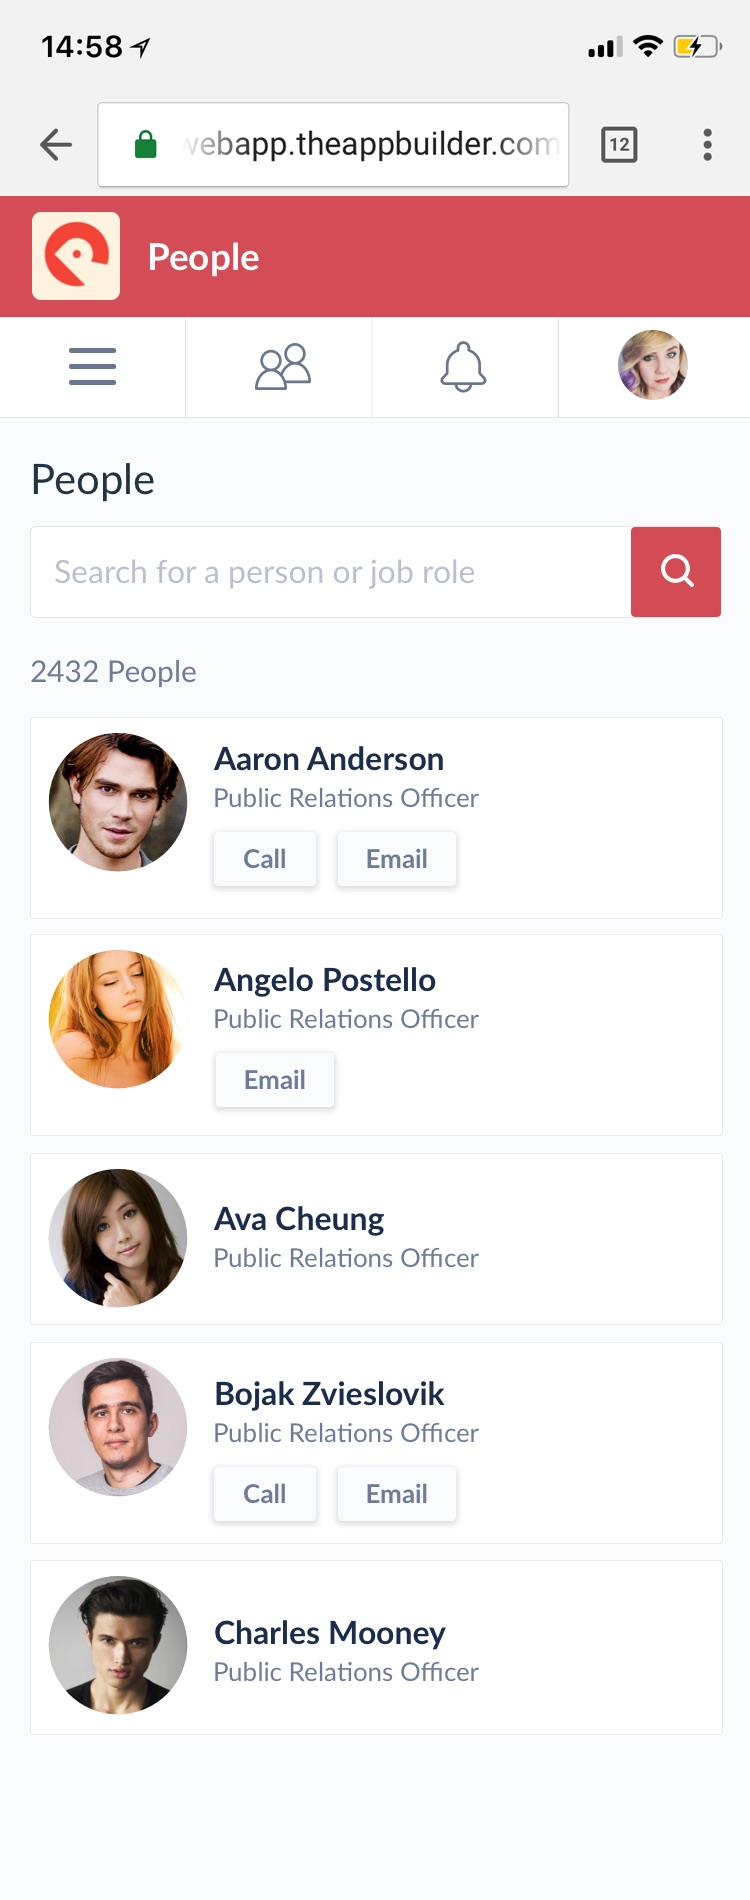
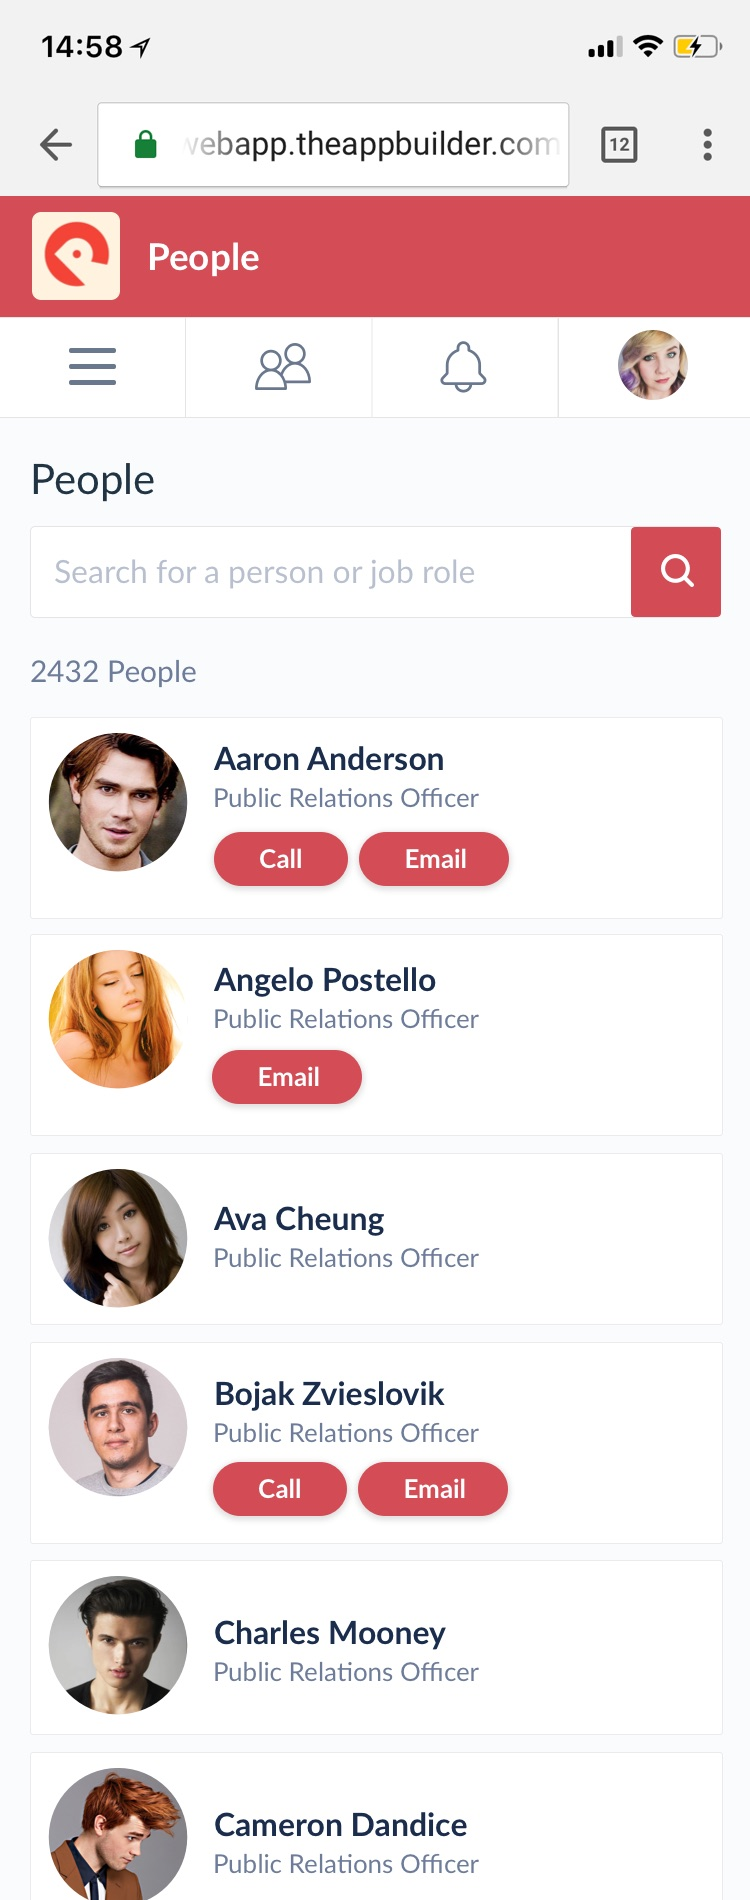
some style tweaks to modals and buttons, content changed on modals, images added

diff --git a/webapp/modals/index.html b/webapp/modals/index.html
@@ -26,33 +26,46 @@ title: Modals
 
     </ul>
 <p>The web app modals can house various content, some may have form elements whereas other may have an illustration and a button. It’s important that they retain the same look and feel. </p>
-<p>Each modal should be 553px in width, white in colour, have rounded corners (8px radius) and a drop shadow. Opening a modal should also trigger a background overlay that is black in colour and 40% opacity.
-</p>
 
-<div class="main__content__block clearfix">
-    <h2>List of likes</h2>
-    <p>This modal is shown when a user views who has liked a comment or post.</p>
-<div class="webapp-modal">
-<img src="/assets/images/webapp/liked-by-modal.png">
-</div>
-
-    <h2>Delete a comment</h2>
-    <p>This modal is shown when a user deletes a comment.</p>
-</div>
- <!------------------delete modal --------------------->
-<div class="main__content__block clearfix">
-    <div class="webapp-modal__container">
-        <p class="webapp-modal--text">Are you sure you want to delete your comment?</p><p class="webapp-modal--text">This cannot be undone.</p>
-    <button class="webappButton webappButton--primary--delete">Yes, Delete</button>
-        <div class="cancel-link">
-        <a href="#" class="text--link text--link-delete">No, cancel</a>
-        </div>
+    <div class="imageContainer imageContainer--one padding__30">
+    	<img src="{{ site.baseurl }}/assets/images/webapp/examples/webapp-liked-by-modal.jpg" alt="" /img>
+    	<p class="caption">The "Liked By" modal appearing in the web app </p>
     </div>
-</div>
+
+<p>Each modal should be 553px in width, white in colour, have rounded corners (8px radius) and a drop shadow. Opening a modal should also trigger a background overlay that is black in colour and 40% opacity.</p>
 
 
-<h2>Verify your email address</h2>
-<p>This modal is shown when a user needs to verify their email address. It includes a resend link.</p>
+<h2>Modal Examples</h2>
+<p>Below you'll find a range of coded modals that are used within the web app.</p>
+<p>The first of which is the modal that is presented to a user when they click on "Remove Comment" on their comment. The modal is used to confirm their action since it is destructive. While primary buttons within the webapp should generally be the brand colour as set by the app editor in the CMS, destructive buttons should be red to indicate that attention is needed.</p>
+
+  <!------------------delete modal --------------------->
+ <div class="main__content__block clearfix">
+     <div class="webapp-modal__container">
+         <p class="webapp-modal--text">Are you sure you want to remove your comment?</p><p class="webapp-modal--text">This cannot be undone.</p>
+     <button class="webappButton webappButton--primary--delete">Yes, remove</button>
+         <div class="cancel-link">
+         <a href="#" class="text--link text--link-delete">No, cancel</a>
+         </div>
+     </div>
+ </div>
+
+ <!------------------report a comment modal --------------------->
+ <p>Similarly the modal above, the "Report Comment" modal should also use a red button to display the button for the primary action of sending a report about an offensive or innappropriate comment to an admin. Secondary links are shown either below or alongside the primary action for the user. </p>
+
+ <div class="main__content__block clearfix">
+     <div class="webapp-modal__container webapp-modal__container--report">
+         <h2>Report a Comment</h2>
+         <p class="webapp-modal--text">Report comments will be reviewed by an administrator who will take action within 24 hours </p>
+           <div class="report-form">
+               <textarea placeholder="Tell us why you are reporting this comment"></textarea>
+             </div>
+        <a href="#" class="text--link text--link--report">Cancel</a>
+    </div>
+    <button class="webappButton webappButton--primary--sendreport">Send Report</button>
+   </div>
+
+<p>Some modals such as the two below contain illustrations. These modals are intended to be friendly reminders to users to provide their details for the system.</p>
 <!------------------Verify your email modal--------------------->
 <div class="main__content__block clearfix">
      <div class="webapp-modal__container webapp-modal__container--email">
@@ -64,39 +77,19 @@ title: Modals
         </div>
     </div>
 </div>
-<h2>Display name</h2>
-<p>This modal is shown during user onboarding. This is where the user can choose their display name.</p>
+
+<p>The modals have a similar look and feel but can contain a range of elements including illustrations, textareas, inputs etc. The actions the user can take are presented at the bottom of the modal either centered in the modal or right-aligned. </p>
 <!------------------Name tag modal --------------------->
 <div class="main__content__block clearfix">
-     <div class="webapp-modal__container webapp-modal__container--email modal__container--email--name">
-         <img src="/assets/images/webapp/name-tag-icon.svg">
-         <h2 class="webapp-modal--text">What should we call you?</h2>
-        <p class="webapp-modal--text webapp-modal--text--email">You need a display name to use the social features</p>
-
-         <div class="main__content__block textWidth padding__50 clearfix">
-
-        <div class="name-form">
-       <input autocomplete="off" class="name-form" name="" placeholder="Display Name" type="text" value="Isabella Swan"/>
+  <div class="webapp-modal__container webapp-modal__container--email modal__container--email--name">
+       <img src="/assets/images/webapp/name-tag-icon.svg">
+       <h2 class="webapp-modal--text">What should we call you?</h2>
+       <p class="webapp-modal--text webapp-modal--text--email">You need a display name to use the social features</p>
+    <div class="main__content__block textWidth padding__50 clearfix">
+      <div class="name-form">
+        <input autocomplete="off" class="name-form" name="" placeholder="Display Name" type="text" value="Isabella Swan"/>
+      </div>
+        <button class="webappButton webappButton--primary--confirm">Confirm Display Name</button>
+    </div>
   </div>
-             <button class="webappButton webappButton--primary--confirm">Confirm  Display Name</button>
-     </div>
-       </div>
 </div>
-<!------------------report a comment modal --------------------->
-    <h2>Report a comment</h2>
-<p>
-This modal will show when a user reports a comment.</p>
-
-<!------------------report a comment modal --------------------->
-<div class="main__content__block clearfix">
-    <div class="webapp-modal__container webapp-modal__container--report">
-        <h2>Report a Comment</h2>
-        <p class="webapp-modal--text">Report comments will be reviewed by an administrator who will take action within 24 hours </p>
-          <div class="report-form">
-              <textarea placeholder="Tell us why you are reporting this comment"></textarea>
-  </div>
-         <a href="#" class="text--link text--link--report">Cancel</a>
-        </div>
-
-    <button class="webappButton webappButton--primary--sendreport">Send Report</button>
-        </div>

diff --git a/webapp/buttons/index.html b/webapp/buttons/index.html
@@ -7,7 +7,7 @@ title: Buttons & Links
 ---
 <p>Buttons are found throughout the webapp to indicate the primary action a user can take on that screen, for example, thanking a staff member or completing a step of the onboarding process.</p>
 
-<p>The buttons are round, lozenge shapes and should take on the brand colour as set by the app editor. Depending on the lightness of the colour, the button text can be white or black. If no brand colour is the base colour should be blue (#106DE0) with white text. 
+<p>The buttons are round, lozenge shapes and should take on the brand colour as set by the app editor. Depending on the lightness of the colour, the button text can be white or black. If no brand colour is the base colour should be blue (#106DE0) with white text.
 </p>
 
 <h2>Primary Buttons</h2>
@@ -16,32 +16,37 @@ title: Buttons & Links
 
 <!-------- Primary Buttons-------->
 <div class="main__content__block textWidth padding__50"  markdown="0">
-    
+
     <!-------- Primary Button-------->
-    <!-------- Active Button-------->  
+    <!-------- Active Button-------->
     <button class="webappButton webappButton--primary">Primary</button>
     <!-------- Disabled Button-------->
 	<button class="webappButton webappButton--disabled">Disabled</button>
     <!-------- Hover Button--
 	<button class="webappButton webappButton--hover">Hover</button>	------>
     <!-------- Pressed Button-------->
-    <button class="webappButton webappButton--pressed">Pressed</button>	
+    <button class="webappButton webappButton--pressed">Pressed</button>
 </div>
 
 <p>The disabled state of the button is always the same, it appears as light grey with white text and no box shadow.</p>
 
 <h2>Buttons with Icons</h2>
 <p>Another button variation is the button with an accompanying icon such as the Download Contact button found on a contact widget. Its hover and pressed states should follow the same pattern as the primary button style. </p>
- <!-------- Button with Icon-------->  
+ <!-------- Button with Icon-------->
 <div class="main__content__block textWidth padding__50"  markdown="0">
     <button class="webappButton webappButton--icon"><span class="contact"><img src="{{ site.baseurl }}/assets/images/webapp/ADDICON.svg"></span><span class="download">Download Contact</span></button>
 </div>
 <h2>Primary Button and Secondary Option</h2>
-<p>Users are often presented with 2 options shown in the format of a primary button and a secondary action shown as a basic link below. The hover state for these basic links is a bottom border. 
+<p>Users are often presented with 2 options shown in the format of a primary button and a secondary action shown as a basic link below. The hover state for these basic links is a bottom border.
 </p>
 
 <div class="main__content__block textWidth padding__50">
 	<a href="#" class="text--link padding__right15">Resend Code to Mobile</a>
-
 </div>
 
+
+<div class="imageContainer imageContainer--two padding__50">
+	<img src="{{ site.baseurl }}/assets/images/webapp/examples/login-inactive.jpg" alt="" /img>
+	<img src="{{ site.baseurl }}/assets/images/webapp/examples/login-active.jpg" alt="T" class="last" /img>
+	<p class="caption">Buttons presented on the onboarding screens, shown inactive and active when form is filled </p>
+</div>

diff --git a/_sass/webapp/_webapp_modals.scss b/_sass/webapp/_webapp_modals.scss
@@ -3,15 +3,15 @@
    max-width: 70%;
     margin: auto;
     padding-bottom: 30px;
-    
+
 }
 .webapp-modal--name img {
     max-width: 50%;
     margin: auto;
     padding-bottom: 5px;
     float: left;
-    
-    
+
+
 }
 
 .webapp-modal--delete {
@@ -33,10 +33,10 @@
     padding-top: 60px;
     text-align: center;
     margin-bottom: 60px;
-} 
+}
 
 .webapp-modal__container p {
-    
+
     padding: 0;
 
 }
@@ -71,12 +71,12 @@
 /*---------------- verify email-------------*/
 
 .webapp-modal__container--email img {
-    max-height: 150px;   
+    max-height: 150px;
     padding-bottom: 20px;
-    
+
 }
-.webapp-modal__container--email { 
-    height: 465px;
+.webapp-modal__container--email {
+    height: auto;
     width: 75%;
     padding-left: 40px;
     padding-right: 40px;
@@ -85,14 +85,13 @@
 /*---------------- resend verify link email-------------*/
 
 .cancel-link--email {
-    
-    margin-top: 85px;
+    padding: 40px 0;
 }
 
 /*------------------ name tag------------------------------*/
 
 .modal__container--email--name img {
-    
+
     max-height: 400px;
     max-width: 300px;
     padding: 0;
@@ -102,7 +101,7 @@
 }
 
 .modal__container--email--name{
-    height: 485px;
+    height: auto;
     width: 75%;
     }
 
@@ -178,13 +177,13 @@ textarea::placeholder {
 }
 
 .report-form {
-    
+
     position: relative;
 }
 
 
 .webapp-modal__container--report {
-    
+
     height: 425px;
     width: 75%;
 }
@@ -215,7 +214,7 @@ textarea::placeholder {
     float: right;
     margin-top: -135px;
     margin-right: 20%;
-   
+
 }
 
 
@@ -223,6 +222,5 @@ textarea::placeholder {
     margin-left: 50%;
     margin-top: 30px;
     float: left;
-    
-}
 
+}

diff --git a/webapp/list-cards/index.html b/webapp/list-cards/index.html
@@ -7,6 +7,12 @@ title: List Cards
 ---
 
 <p>App Editors can create lists within their apps that house various kinds of content, including modular pages, videos, images and other lists. In the CMS the App Editor can select a layout to determine how these list items appear in the end user’s phone or tablet. However, the webapp uses a single layout - a grid of the list items presented as cards. </p>
+
+<div class="imageContainer imageContainer--one padding__50">
+	<img src="{{ site.baseurl }}/assets/images/webapp/examples/webapp-list.jpg" alt="Webapp Homepage" /img>
+	<p class="caption"></p>
+</div>
+
 <p class="padding__1em">The list cards are made up of different elements:</p>
 <ul class="main__content__ul">
   <li>Featured image</li>

diff --git a/_sass/webapp/_webapp_buttons.scss b/_sass/webapp/_webapp_buttons.scss
@@ -16,12 +16,10 @@
 }
 
 .webappButton--disabled {
-    
-    color: $white;
+  color: $white;
 	background: $buttonDisabled;
 	border: $buttonPrimary;
-	&:hover{
-}
+  cursor: not-allowed;
 }
 
 .webappButton--primary{
@@ -117,5 +115,3 @@ label{
 	letter-spacing: 0.2px;
 	padding-bottom: 3px;
 }
-
-    
